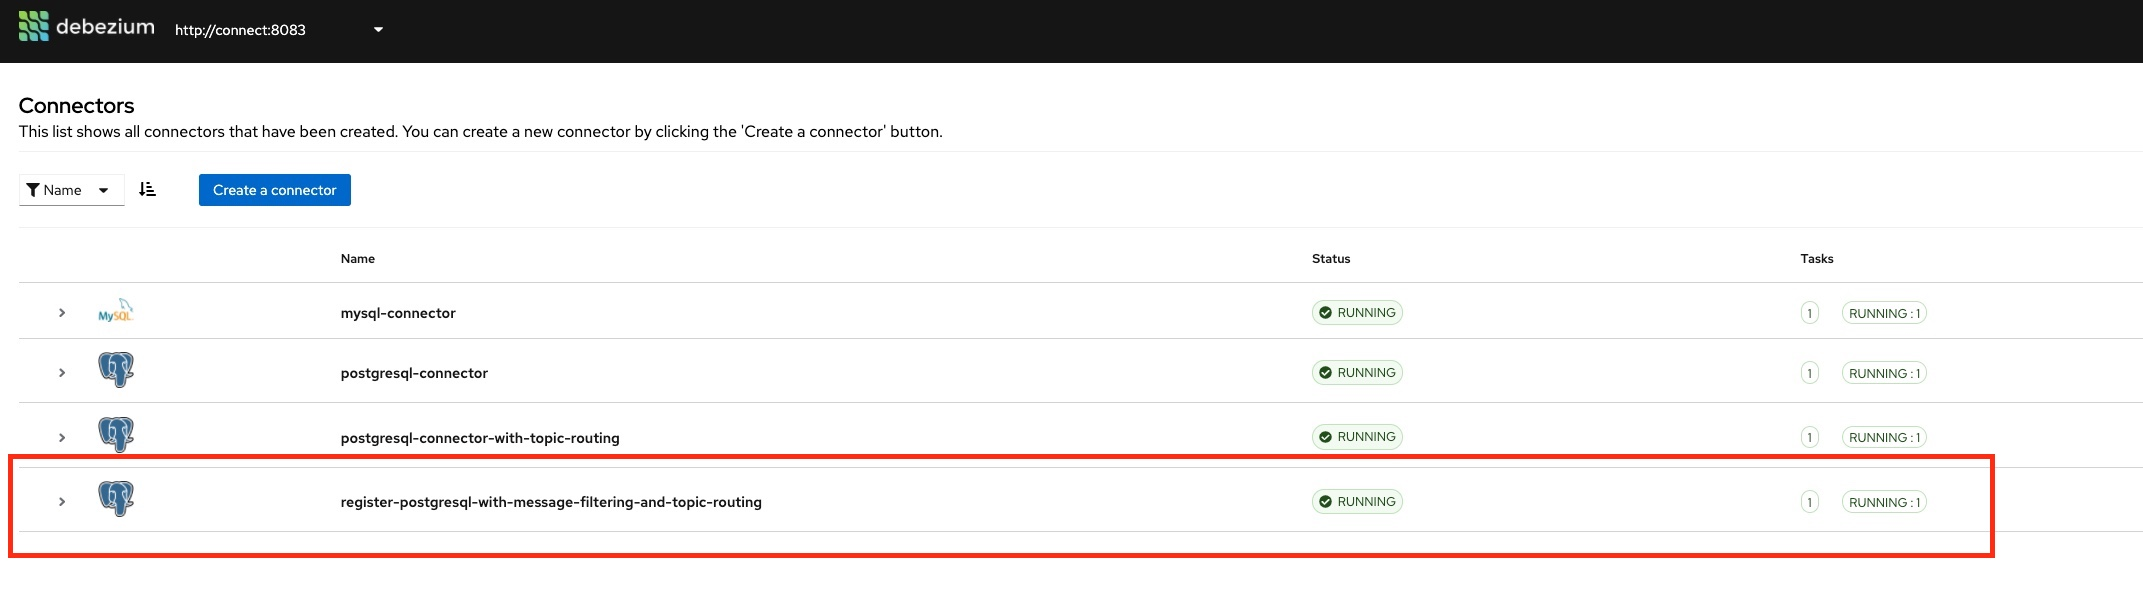
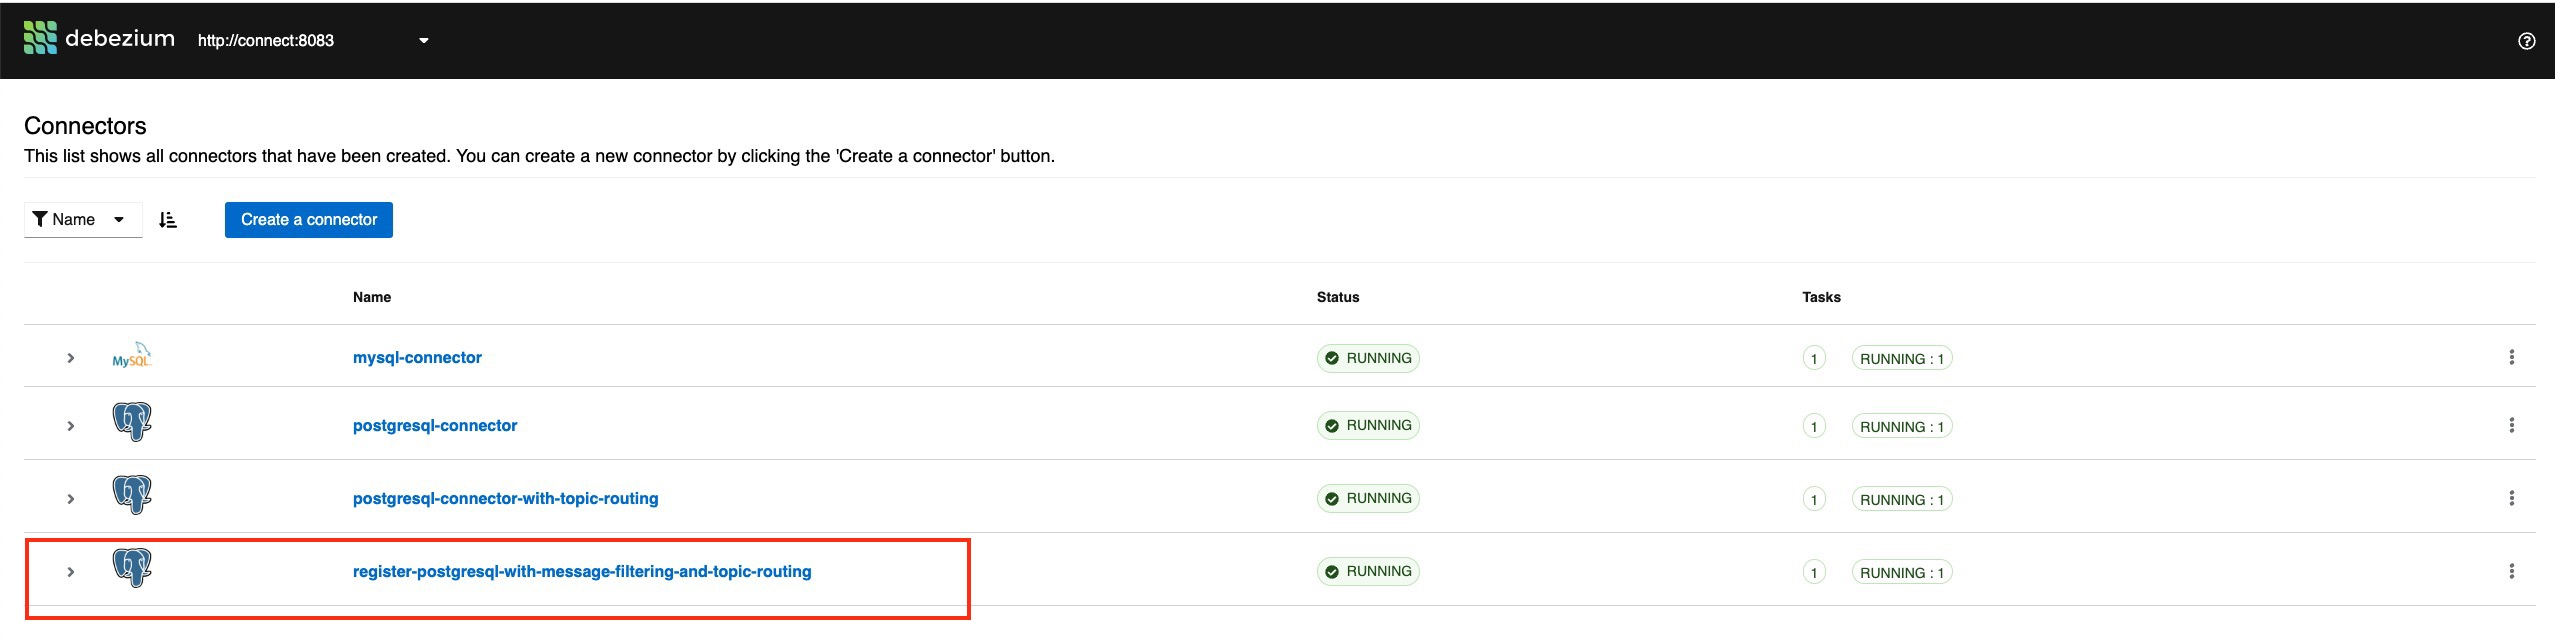
Updated to Debezium 2.3.2

diff --git a/README.md b/README.md
@@ -300,16 +300,15 @@ We'll use the API instead of Debezium UI. Connectors are defined by a JSON file 
   "name": "mysql-connector",
   "config": {
     "connector.class": "io.debezium.connector.mysql.MySqlConnector",
-    "tasks.max": "1",
     "database.hostname": "mysql",
     "database.port": "3306",
     "database.user": "debezium",
     "database.password": "dbz",
     "database.server.id": "184054",
-    "database.server.name": "mysql",
     "database.include.list": "app1",
-    "database.history.kafka.bootstrap.servers": "kafka:9092",
-    "database.history.kafka.topic": "mysql-schema-changes.app1"
+    "topic.prefix": "dbz",
+    "schema.history.internal.kafka.bootstrap.servers": "kafka:9092",
+    "schema.history.internal.kafka.topic": "mysql-schema-changes.app1"
   }
 }
 ````
@@ -351,7 +350,7 @@ When the connector starts, it gets an snapshot of the information existing in th
 
 
 
-The topic containing the snapshot is "mysql.app1.customers". If we check the messages in this topic, we'll get four messages. Each message is generated from each row:
+The topic containing the snapshot is "dbz.app1.customers". If we check the messages in this topic, we'll get four messages. Each message is generated from each row:
 
 ![debezium_empty](doc/img/mysql_snapshot_messages.jpg)
 
@@ -410,6 +409,7 @@ In this case, instead of using the Kafka Connect Rest API, we're going to use De
 Now, we have to fill the connector configuration data:
 
 - **Connector name**: postgresql-connector
+- **Topic prefix**: dbz
 - **Namespace**: postgresql
 - **Hostname**: postgresql
 - **Port**: 5432
@@ -528,7 +528,7 @@ In these lines we are configuring:
 The complete JSON file is located at "examples/transformations/connectors/register-postgresql-with-topic-routing.json". In order to register, we can execute the script to register all the connectors ("examples/transformations/register_connectors.sh") or we can execute this sentence to register just this one (from "examples/transformations" folder):
 
 ````shell
-curl -i -X POST -H "Accept:application/json" -H  "Content-Type:application/json" http://localhost:8083/connectors/ -d @connectors/register-postgresql-with-message-filtering-and-topic-routing.json
+curl -i -X POST -H "Accept:application/json" -H  "Content-Type:application/json" http://localhost:8083/connectors/ -d @connectors/register-postgresql-with-topic-routing.json
 ````
 
 
@@ -554,7 +554,7 @@ We can also check it in the [Debezium UI](http://localhost:9080/)::
 
 
 
-And, if we go to [Kafka UI](http://localhost:9081/) we'll see that the new topic "customers_from_legacy" is created and if we click on it to see its messages, we'll see five messages associated to the initial table snapshot:
+And, if we go to [Kafka UI](http://localhost:9081/) we'll see that the new topic "customers_from_legacy" is created and if we click on it to see its messages, we'll see some messages associated to the initial table snapshot:
 
 ![debezium_empty](doc/img/topic_custom.jpg)
 
@@ -579,7 +579,7 @@ To configure these transformations we need to include these lines in the first P
 "transforms.FilterById.language": "jsr223.groovy",
 "transforms.FilterById.condition": "value.after.id == 2",
 "transforms.RerouteCustomTopic.type": "io.debezium.transforms.ByLogicalTableRouter",
-"transforms.RerouteCustomTopic.topic.regex": "postgresql.app2.customers",
+"transforms.RerouteCustomTopic.topic.regex": "dbz.app2.customers",
 "transforms.RerouteCustomTopic.topic.replacement": "customers_id_2"
 ```
 
@@ -592,7 +592,7 @@ In these lines we are configuring:
 - "transforms.**FilterById**.language": in this property we say that we are going to define the filter condition using Groovy ("jsr223.groovy")
 - "transforms.**FilterById**.condition": this is the filter condition ("value.after.id == 2") that is take the content value and then, examine the property "id" to the "After" node
 - "transforms.**RerouteCustomTopic**.type": we configure that the type of the "RerouteCustomTopic" transformation is "io.debezium.transforms.ByLogicalTableRouter". 
-- "transforms.**RerouteCustomTopic**.topic.regex": this property is used to set the regular expression to match the current topic where changes are sent. So, all the messages sent to the topics matching the expression will be sent to the custom topic instead of the current one. In this case, "postgresql.app2.customers"
+- "transforms.**RerouteCustomTopic**.topic.regex": this property is used to set the regular expression to match the current topic where changes are sent. So, all the messages sent to the topics matching the expression will be sent to the custom topic instead of the current one. In this case, "dbz.app2.customers"
 - "transforms.**RerouteCustomTopic**.topic.replacement": this property defines the custom topic where the messages will be sent. In this case, "customers_id_2"
 
 The complete JSON file is located at "*examples/transformations/connectors/register-postgresql-with-message-filtering-and-topic-routing.json*". 
@@ -600,7 +600,7 @@ The complete JSON file is located at "*examples/transformations/connectors/regis
 In order to register, we can execute the script to register all the connectors ("*examples/transformations/register_connectors.sh*") or we can execute this sentence to register just this one (from "*examples/transformations*" folder):
 
 ````shell
-curl -i -X POST -H "Accept:application/json" -H  "Content-Type:application/json" http://localhost:8083/connectors/ -d @connectors/register-postgresql-with-topic-routing.json
+curl -i -X POST -H "Accept:application/json" -H  "Content-Type:application/json" http://localhost:8083/connectors/ -d @connectors/register-postgresql-with-message-filtering-and-topic-routing.json
 ````
 
 
@@ -696,38 +696,3 @@ To destroy the environment execute the script "destroy_infra.sh" located in each
 sh examples/simple/destroy_infra.sh
 ````
 
-## K3d
-```shell
-k3d cluster create --config ./infra/k3d/k3d-conf.yaml
-kubectl apply -f infra/k3d/postgresql-db.yaml
-
-
-
-kubectl apply -f https://raw.githubusercontent.com/rancher/local-path-provisioner/master/deploy/local-path-storage.yaml
-kubectl patch storageclass local-path -p '{"metadata": {"annotations":{"storageclass.kubernetes.io/is-default-class":"true"}}}'
-kubectl apply -f infra/k3d/pv.yaml
-
-## Install Postgresql
-helm repo add bitnami https://charts.bitnami.com/bitnami
-helm install dev-pg bitnami/postgresql --set primary.persistence.existingClaim=pg-pvc,auth.postgresPassword=pgpass,volumePermissions.enabled=true
-
-## Install OLM
-curl -sL https://github.com/operator-framework/operator-lifecycle-manager/releases/download/v0.20.0/install.sh | bash -s v0.20.0
-
-## Install Strimzi Operator
-kubectl create -f https://operatorhub.io/install/strimzi-kafka-operator.yaml
-
-
-```
-
-```shell
-## Expose Postgresql (postgres / pgpass)
-export KUBECONFIG=$(k3d kubeconfig write k8s-cluster)
-kubectl port-forward --namespace default svc/dev-pg-postgresql 5432:5432
-```
-
-
-Build image
-```
-curl https://repo1.maven.org/maven2/io/debezium/debezium-connector-postgres/2.3.2.Final/debezium-connector-postgres-2.3.2.Final-plugin.tar.gz | tar xvz
-```
